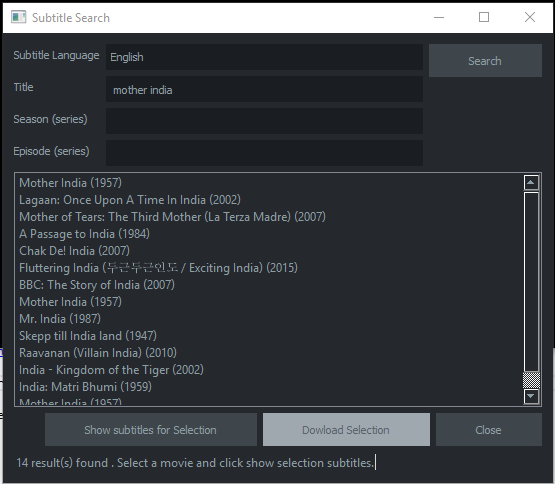
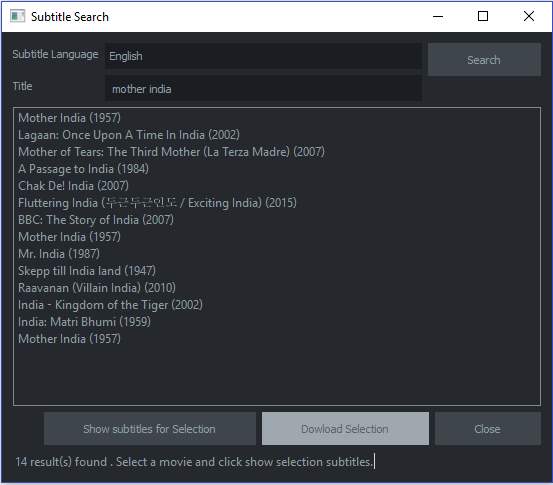
Environment cleanup

Changed region(s): [[0.0, 0.0, 1.0, 1.0]]

diff --git a/ApplicationView.py b/ApplicationView.py
@@ -95,13 +95,9 @@ class ApplicationView(QWidget):
         self.cmbLanguage.currentIndexChanged.connect(self.languageChanged)
 
         self.txtTitle = QLineEdit('mother india')
-        self.txtSeason = QLineEdit('')
-        self.txtEpisode = QLineEdit('')
 
         formLayout.addRow(self.tr('Subtitle Language'), self.cmbLanguage)
         formLayout.addRow(self.tr('Title'), self.txtTitle)
-        formLayout.addRow(self.tr('Season (series)'), self.txtSeason)
-        formLayout.addRow(self.tr('Episode (series)'), self.txtEpisode)
 
         btnSearch = QPushButton('Search', self)
         btnSearch.clicked.connect(self.searchMovie)
